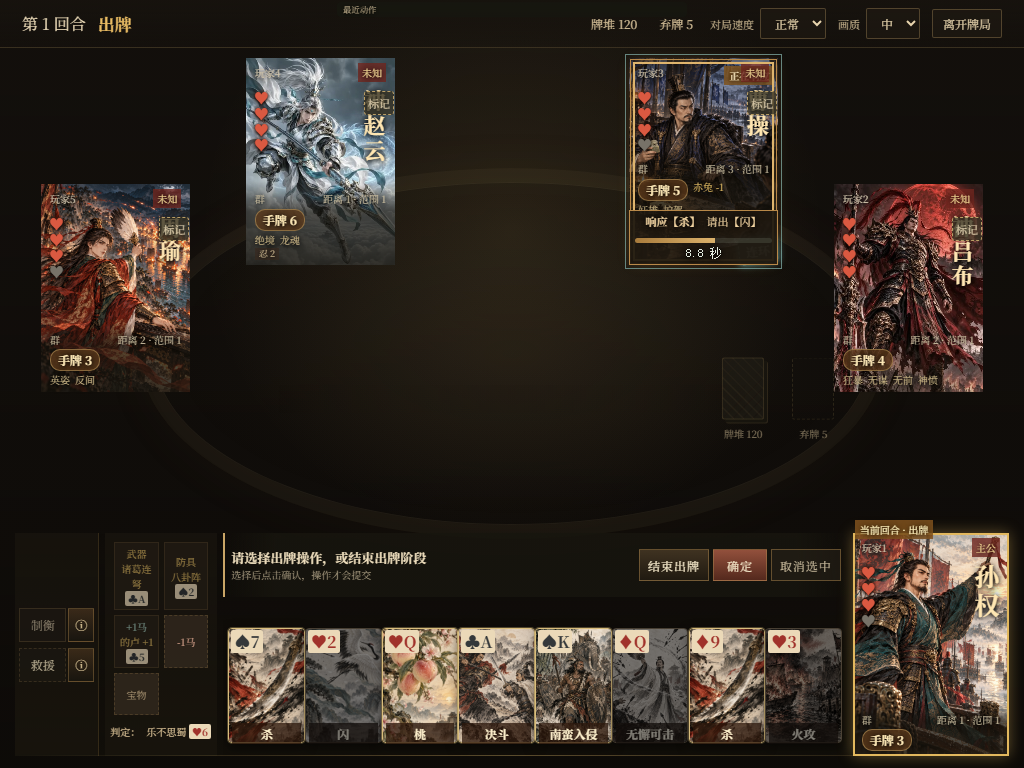
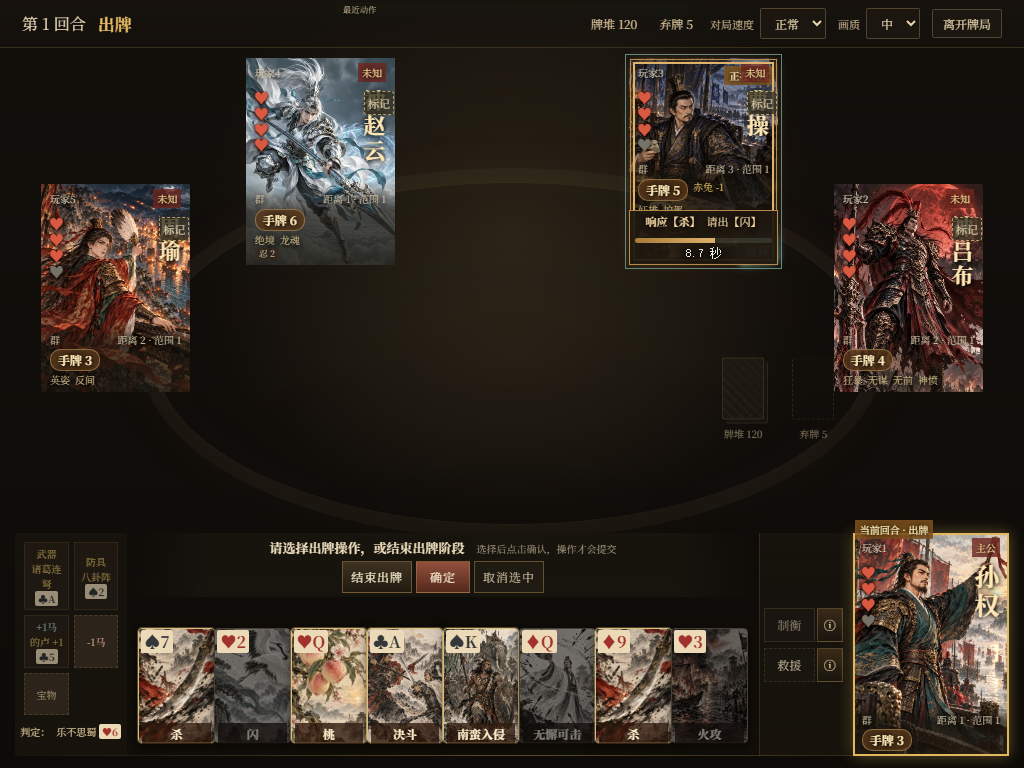
T21 frontend layout interaction and visual refactor
T21.1: mobile-table local composition, non-blocking orientation with portrait fallback

diff --git a/web/src/table.css b/web/src/table.css
@@ -51,7 +51,7 @@
   /* Local operation area: skills | equipment | prompt over hand | portrait */
   .game-board .self-area, .game-board.eight-seats .self-area {
     left: 3%; right: 3%; bottom: var(--edge-gap); height: var(--local-h);
-    grid-template-columns: 112px 140px minmax(0, 1fr) var(--local-w);
+    grid-template-columns: 140px minmax(0, 1fr) 108px var(--local-w);
     grid-template-rows: var(--prompt-h) minmax(0, 1fr); gap: 10px;
     background: linear-gradient(transparent, #14110a99);
   }
@@ -81,7 +81,7 @@
 
   /* 721–1100px: narrower local columns so the hand keeps room. */
   @media (max-width: 1100px) {
-    .game-board .self-area, .game-board.eight-seats .self-area { left: 1.5%; right: 1.5%; grid-template-columns: 84px 112px minmax(0, 1fr) var(--local-w); gap: 6px; }
+    .game-board .self-area, .game-board.eight-seats .self-area { left: 1.5%; right: 1.5%; grid-template-columns: 112px minmax(0, 1fr) 88px var(--local-w); gap: 6px; }
     .game-board.eight-seats .player-panel.player-north-west { left: 21%; }
     .game-board.eight-seats .player-panel.player-north-east { right: 21%; }
     .game-board:not(.eight-seats) .player-panel.player-north-west { left: 24%; }
@@ -167,3 +167,65 @@
 @media (prefers-reduced-motion: reduce) { .game-board * { transition-duration: .001ms !important; } }
 
 .game-board .event-stage strong { background: #211c12b3; padding: 4px 10px; }
+
+/* ───────────── Mobile-table local composition (desktop and landscape phones) ─────────────
+   equipment (left) · prompt + Confirm/Cancel centred over the hand · skills beside the portrait (right) */
+@media (min-width: 721px), (orientation: landscape) {
+  .game-board .self-area .equipment-area { grid-column: 1; }
+  .game-board .self-area .operation-area, .game-board .self-area .hand { grid-column: 2; }
+  .game-board .self-area .skill-area { grid-column: 3; border-right: 0; border-left: 1px solid #a9894533; }
+  .game-board .self-area .decision-prompt { justify-content: center; text-align: center; border-left: 0;
+    background: linear-gradient(90deg, transparent, #17150ee6 12% 88%, transparent); }
+  .game-board .self-area .decision-prompt .prompt-copy { flex: 1 1 100%; display: flex; flex-wrap: wrap; justify-content: center; align-items: baseline; gap: 4px 12px; }
+  .game-board .self-area .decision-prompt .prompt-copy small { display: inline-flex; }
+}
+@media (orientation: landscape) and (max-height: 600px) {
+  .game-board .self-area, .game-board.eight-seats .self-area { grid-template-columns: 100px minmax(0, 1fr) 80px var(--local-w); }
+  .game-board.eight-seats .self-area { grid-template-columns: 92px minmax(0, 1fr) 76px var(--local-w); }
+  .game-board .self-area .decision-prompt .prompt-copy { flex-wrap: nowrap; overflow: hidden; }
+  .game-board .self-area .decision-prompt .prompt-copy small { display: none; }
+  /* Side seats sit above the local row, as on the mobile table. */
+  .game-board:not(.eight-seats) .player-panel.player-west, .game-board:not(.eight-seats) .player-panel.player-east { top: max(46px, calc(100% - var(--local-h) - var(--seat-h) - 12px)); }
+}
+
+/* ───────────── Portrait fallback (orientation lock unavailable) ─────────────
+   Opponents scroll in a compact grid; the local operation area stays pinned at the bottom. */
+@media (orientation: portrait) and (max-width: 720px) {
+  .game-board, .game-board.eight-seats {
+    display: grid; grid-template-columns: repeat(4, minmax(0, 1fr)); grid-auto-rows: auto;
+    gap: 6px; height: auto; min-height: 0; padding: 6px 6px 0; align-content: start;
+  }
+  .game-board::before, .game-board .table-piles { display: none; }
+  .game-board > .player-panel:not(.player-self) {
+    position: relative; inset: auto; grid-column: auto; grid-row: auto;
+    width: 100%; height: auto; min-height: 0; aspect-ratio: .72; margin: 0;
+  }
+  .game-board .player-panel .responder-state { position: absolute; bottom: 0; top: auto; padding: 2px; }
+  .game-board .player-panel .response-description span { display: none; }
+  .game-board .general-line b { font-size: 14px; }
+  .game-board .seat-caption { padding: 4px 3px 2px; font-size: 9px; }
+  .game-board .seat-facts, .game-board .mini-skills { display: none; }
+  .game-board .event-stage, .game-board .event-stage:has(.center-action-card) {
+    position: relative; inset: auto; transform: none; grid-column: 1 / -1; grid-row: auto; width: 100%; min-height: 0; padding: 4px;
+  }
+  .game-board .recent-actions { position: relative; inset: auto; transform: none; grid-column: 1 / -1; grid-row: auto; width: auto; max-width: none; }
+
+  .game-board .self-area, .game-board.eight-seats .self-area {
+    position: sticky; bottom: 0; left: auto; right: auto; z-index: 30; grid-column: 1 / -1; grid-row: auto;
+    display: grid; height: auto; min-height: 0; margin: 0 -6px; padding: 6px 6px max(6px, env(safe-area-inset-bottom));
+    grid-template-columns: minmax(0, 1fr) 88px 96px; grid-template-rows: auto 112px 132px; gap: 6px;
+    background: #15120ef2; border-top: 1px solid var(--t-line);
+  }
+  .game-board .self-area .operation-area { grid-column: 1 / -1; grid-row: 1; }
+  .game-board .self-area .decision-prompt { position: relative; max-height: 34vh; padding: 4px; justify-content: center; background: none; }
+  .game-board .self-area .decision-prompt .prompt-copy { flex-basis: 100%; text-align: center; }
+  .game-board .self-area .decision-prompt .prompt-copy small { display: block; }
+  .game-board .self-area .hand { grid-column: 1 / -1; grid-row: 2; height: 112px; overflow-x: auto; overflow-y: hidden; }
+  .game-board .self-area .hand-fan { justify-content: flex-start; padding: 14px 4px 2px; width: max-content; min-width: 100%; }
+  .game-board .self-area .hand-card { flex: 0 0 64px; width: 64px; margin-left: -10px; }
+  .game-board .self-area .equipment-area { grid-column: 1; grid-row: 3; }
+  .game-board .self-area .skill-area { grid-column: 2; grid-row: 3; border: 0; }
+  .game-board .self-area .skill-bar { display: grid; }
+  .game-board .player-self .seat-timer { top: auto; bottom: 0; }
+  .game-board .self-area .player-self { grid-column: 3; grid-row: 3; position: relative; inset: auto; width: 100%; height: 100%; transform: none; }
+}

diff --git a/web/src/components/GamePage.tsx b/web/src/components/GamePage.tsx
@@ -10,7 +10,7 @@ import { SuitText } from './SuitText'
 import { CombatVFXLayer } from './CombatVFXLayer'
 import type { GodPortraitMode } from './GodPortrait'
 import { readVfxQuality, saveVfxQuality, type VfxQuality } from '../vfx/CombatVFXRuntime'
-import { LandscapeGate } from './LandscapeGate'
+import { tryLandscape } from './LandscapeGate'
 import { seatAnchors, boardClass } from '../tableLayout'
 import { cardNames } from './cardUtil'
 import { PlayerPanel } from './PlayerPanel'
@@ -57,6 +57,12 @@ export function GamePage() {
     } catch { /* A malformed local selection never changes the authoritative request. */ }
   },[request,selectionKey,selectionStorageKey])
 
+  useEffect(() => {
+    if (!window.matchMedia?.('(orientation: portrait)').matches) return
+    const attempt = () => { void tryLandscape() }
+    window.addEventListener('pointerdown', attempt, { once: true })
+    return () => window.removeEventListener('pointerdown', attempt)
+  }, [])
   const [hint, setHint] = useState('')
   useEffect(() => {
     if (!hint) return
@@ -249,7 +255,7 @@ export function GamePage() {
 
   const temporaryPanel = projection.shared_cards.length > 0 || (!!request && (request.request_type === 'choose_card' || request.request_type === 'choose_cards' && (!!projection.players.find((p) => p.player_id === request.subject_player_id)?.revealed_hand?.length || Object.values(projection.players.find((p) => p.player_id === request.subject_player_id)?.special_piles ?? {}).some(cards=>cards.some(card=>request.eligible_card_ids?.includes(card.card_id))))) && !!request.subject_player_id && (otherCardChoices.length > 0 || !!projection.players.find((p) => p.player_id === request.subject_player_id)?.revealed_hand?.some((card) => request.eligible_card_ids?.includes(card.card_id))))
   return <main className="game-page table-background">
-    <LandscapeGate />
+    
     {temporaryPanel && <TemporaryInteractionPanel projection={projection} request={request} seatId={state.seatId} connected={state.connection === 'connected'} processing={!!state.decisionProcessing} selected={selectedCards} canConfirm={canConfirm} onSelect={toggleCard} onConfirm={confirm} onPass={() => submitImmediate({ pass: true })} requestControls={request && request.request_type !== 'choose_card' ? <DecisionPrompt request={request} projection={projection} canConfirm={canConfirm} processing={!!state.decisionProcessing} summary={summary} progress={progress} reason={confirmBlocker} onConfirm={confirm} onCancel={() => setSelectedCards([])} onPass={() => submitImmediate({ pass: true })} onPassRoot={() => submitImmediate({ pass: true, scope: 'root_trick' })} onBoolean={submitImmediate} onOption={submitImmediate} /> : undefined} />}
     <header className="game-hud"><div><span>第 {projection.turn_number} 回合</span><strong>{phaseNames[projection.current_phase] ?? projection.current_phase}</strong>{state.updateAvailable && <small className="game-update-note">新版本可用</small>}</div><div className="pile-stats"><span>牌堆 {projection.deck_count}</span><span>弃牌 {projection.discard_count}</span><label>对局速度 <select aria-label="对局速度" value={gameSpeed} onChange={(event) => { const value = event.target.value as GameSpeed; setGameSpeed(value); actions.setPresentationSpeed?.(value); localStorage.setItem('sanguosha.web.speed', value) }}><option value="slow">慢</option><option value="normal">正常</option><option value="fast">快</option></select></label><label className="vfx-quality-control">画质 <select aria-label="战斗特效画质" value={vfxQuality} onChange={(event) => { const value = event.target.value as VfxQuality; setVfxQuality(value); saveVfxQuality(value) }}><option value="high">高</option><option value="medium">中</option><option value="low">低</option></select></label><button onClick={actions.returnHome}>离开牌局</button></div></header>
     <section className={boardClass(projection.players.length)}>

diff --git a/web/e2e/t21-visual.spec.ts b/web/e2e/t21-visual.spec.ts
@@ -123,3 +123,53 @@ test('T21 real draft, 5 and 8 seat tables, refresh reconnect', async ({ page }) 
   }
   expect(errors).toEqual([])
 })
+
+// T21.1 orientation: landscape uses the mobile table; portrait is a usable fallback, never a gate.
+for (const [w, h, count] of [[844, 390, 5], [915, 412, 8], [390, 844, 5], [412, 915, 8]]) {
+  test(`T21.1 mobile ${w > h ? 'landscape' : 'portrait'} ${count} seats`, async ({ page }) => {
+    await page.setViewportSize({ width: w, height: h })
+    await fixture(page, count, '')
+    await expect(page.getByText('请横屏游玩')).toHaveCount(0)
+    await expect(page.locator('.player-panel:visible')).toHaveCount(count)
+    if (w > h) {
+      const x = async (sel: string) => (await page.locator(sel).boundingBox())!
+      const [eq, hand, skills, self] = [await x('.equipment-area'), await x('.hand'), await x('.skill-area'), await x('.player-self')]
+      expect(eq.x + eq.width).toBeLessThanOrEqual(hand.x + 1)
+      expect(hand.x + hand.width).toBeLessThanOrEqual(skills.x + 1)
+      expect(skills.x + skills.width).toBeLessThanOrEqual(self.x + 1)
+      await noOverlap(page)
+    }
+    // Full play flow: card → target → Confirm, everything reachable in this orientation.
+    await page.getByRole('button', { name: '杀 ♠7' }).click()
+    await page.locator('[data-player-id="p3"] .portrait-button').click()
+    const confirm = page.getByRole('button', { name: '确定', exact: true })
+    await confirm.scrollIntoViewIfNeeded(); await expect(confirm).toBeInViewport()
+    await expect(page.getByRole('button', { name: '取消选中' })).toBeInViewport()
+    await shot(page, `mobile-${w}x${h}-${count}`)
+    await confirm.click()
+    expect(await page.evaluate(() => (window as any).__decision.value)).toEqual({ option: 'use:h1', targets: ['p3'] })
+    expect(await page.evaluate(() => document.documentElement.scrollWidth <= innerWidth)).toBe(true)
+  })
+}
+
+test('T21.1 failed fullscreen and orientation lock still enters and plays', async ({ browser }) => {
+  const context = await browser.newContext({ viewport: { width: 390, height: 844 }, isMobile: true, hasTouch: true })
+  const page = await context.newPage()
+  await page.addInitScript(() => {
+    (window as any).__lockCalls = 0
+    Element.prototype.requestFullscreen = () => Promise.reject(new Error('denied'))
+    Object.defineProperty(screen, 'orientation', { configurable: true, value: { type: 'portrait-primary', lock: () => { (window as any).__lockCalls++; return Promise.reject(new Error('NotSupportedError')) } } })
+  })
+  await page.goto('/?seed=21')
+  await page.getByRole('button', { name: '单人游戏', exact: true }).tap()
+  await page.locator('.general-card').first().tap()
+  await page.getByRole('button', { name: '确认武将' }).tap()
+  await expect(page.locator('.player-self')).toBeVisible()
+  await expect(page.locator('.hand')).toBeVisible()
+  await expect(page.getByText('请横屏游玩')).toHaveCount(0)
+  expect(await page.evaluate(() => (window as any).__lockCalls)).toBeGreaterThan(0)
+  await shot(page, 'mobile-lock-failed-portrait')
+  await page.setViewportSize({ width: 844, height: 390 })  // manual rotation later re-lays out
+  await expect(page.locator('.self-area .player-self')).toBeInViewport()
+  await context.close()
+})

diff --git a/web/src/styles.css b/web/src/styles.css
@@ -913,7 +913,6 @@ input:focus { border-color: #b07a23; box-shadow: 0 0 0 2px rgba(189,135,44,.18);
 .game-board .responder-state .timer i { background:linear-gradient(90deg,#a87b3c,var(--response-gold)); }
 
 /* T20.3: one table DOM, five independently allocated local HUD regions. */
-.landscape-gate { display:none; }
 .game-page { height:100vh; height:100dvh; min-height:0; padding:env(safe-area-inset-top) env(safe-area-inset-right) env(safe-area-inset-bottom) env(safe-area-inset-left); }
 .game-board { --local-h:clamp(230px,30dvh,300px); --local-w:calc(var(--local-h)*.7); --card-w:clamp(72px,7vw,100px); height:100%; min-height:0; }
 .game-board .self-area,.game-board.eight-seats .self-area { display:grid; position:absolute; left:3%; right:3%; bottom:26px; height:var(--local-h); min-height:0; padding:0; gap:10px; grid-template-columns:112px 140px minmax(0,1fr) var(--local-w); grid-template-rows:80px minmax(0,1fr); align-items:stretch; }
@@ -953,12 +952,7 @@ input:focus { border-color: #b07a23; box-shadow: 0 0 0 2px rgba(189,135,44,.18);
 .identity-note-menu { position:absolute; top:100%; right:0; display:grid; grid-template-columns:repeat(2,44px); background:#282116f5; border:1px solid #bda16c; }
 .identity-note-menu button { min-height:44px; padding:3px; font-size:12px; color:#ebd8ad; border:0; background:transparent; }
 @media (orientation:portrait) and (max-width:720px) {
-  .game-page > :not(.landscape-gate),.pregame-page > :not(.landscape-gate) { visibility:hidden; pointer-events:none; }
-  .game-page,.pregame-page { height:100vh; height:100dvh; min-height:0; padding:0; overflow:hidden; }
-  .landscape-gate { display:flex; position:fixed; z-index:1000; inset:0; align-items:center; justify-content:center; flex-direction:column; color:#f3dfb5; background:#16140eea; backdrop-filter:blur(12px); padding:env(safe-area-inset-top) env(safe-area-inset-right) env(safe-area-inset-bottom) env(safe-area-inset-left); }
-  .landscape-gate > span { font-size:60px; }
-  .landscape-gate strong { font-size:26px; }
-  .landscape-gate p { font-size:13px; }
+  .game-page,.pregame-page { height:auto; min-height:100dvh; padding:0; overflow-x:hidden; overflow-y:auto; }
 }
 @media (orientation:landscape) and (max-height:600px) {
   .game-board { --table-scale:clamp(.48,calc(100dvh / 800px),.75); --seat-h:clamp(100px,28dvh,156px); --seat-w:calc(var(--seat-h)*.72); --local-h:clamp(155px,43dvh,190px); --local-w:calc(var(--local-h)*.7); --card-w:clamp(52px,15dvh,78px); display:block; padding:0; min-height:0; height:100%; }

diff --git a/web/e2e/t20-3-hud.spec.ts b/web/e2e/t20-3-hud.spec.ts
@@ -29,7 +29,7 @@ for(const [width,height,count] of [[1440,1000,5],[844,390,5],[932,430,8],[844,39
   const areas=await page.locator('.skill-area,.equipment-area,.hand,.player-self').evaluateAll(es=>es.map(e=>{const r=e.getBoundingClientRect();return {x:r.x,y:r.y,right:r.right,bottom:r.bottom}}))
   expect(areas.every(r=>r.x>=0&&r.right<=width&&r.y>=0&&r.bottom<=height)).toBe(true)
   const skills=await page.locator('.skill-area').boundingBox(),hand=await page.locator('.hand').boundingBox()
-  expect(skills!.x+skills!.width).toBeLessThanOrEqual(hand!.x)
+  expect(hand!.x+hand!.width).toBeLessThanOrEqual(skills!.x)
   const button=page.getByRole('button',{name:'查看制衡技能说明'}).first()
   await button.click();await expect(page.getByRole('tooltip')).toContainText('制衡');await page.mouse.move(0,0);await button.blur()
   const eq=page.getByRole('button',{name:'装备 诸葛连弩'})
@@ -54,11 +54,11 @@ test('T20.3 identity notes survive refresh and remain browser-private',async({pa
  await expect(note).toHaveCount(0)
 })
 
-test('T20.3 portrait gate keeps selection and the same portrait across rotation',async({page})=>{
+test('T21.1 portrait fallback keeps selection and the same portrait across rotation',async({page})=>{
  await page.setViewportSize({width:844,height:390});await fixture(page,5)
  await page.getByRole('button',{name:'装备 诸葛连弩'}).click()
  await page.evaluate(()=>{(window as any).__portrait=document.querySelector('.player-self .dynamic-portrait')})
- await page.setViewportSize({width:390,height:844});await expect(page.getByText('请横屏游玩')).toBeVisible()
+ await page.setViewportSize({width:390,height:844});await expect(page.getByText('请横屏游玩')).toHaveCount(0)
  await page.setViewportSize({width:844,height:390});await expect(page.getByText('请横屏游玩')).not.toBeVisible()
  await expect(page.getByRole('button',{name:'装备 诸葛连弩'})).toHaveAttribute('aria-pressed','true')
  expect(await page.evaluate(()=>(window as any).__portrait===document.querySelector('.player-self .dynamic-portrait'))).toBe(true)

diff --git a/web/src/components/PregamePage.tsx b/web/src/components/PregamePage.tsx
@@ -1,4 +1,4 @@
-import { LandscapeGate } from './LandscapeGate'
+
 import { useState } from 'react'
 import { useGame } from '../state/GameContext'
 import { DynamicPortrait } from './DynamicPortrait'
@@ -15,14 +15,14 @@ export function PregamePage() {
   const { state, actions } = useGame()
   const draft = state.draft
   const [search, setSearch] = useState('')
-  if (!draft) return <main className="pregame-page table-background"><LandscapeGate /><div className="paper-panel loading-panel">等待服务器发放武将候选……</div></main>
-  if (draft.request.choices.some((id) => !state.generals[id])) return <main className="pregame-page table-background"><LandscapeGate /><div className="paper-panel loading-panel">武将资料载入中……<button onClick={() => window.location.reload()}>重新载入</button></div></main>
+  if (!draft) return <main className="pregame-page table-background"><div className="paper-panel loading-panel">等待服务器发放武将候选……</div></main>
+  if (draft.request.choices.some((id) => !state.generals[id])) return <main className="pregame-page table-background"><div className="paper-panel loading-panel">武将资料载入中……<button onClick={() => window.location.reload()}>重新载入</button></div></main>
   const selected = state.generals[state.selectedGeneral]
   const choices = draft.test_room ? draft.request.choices.filter((id) => {
     const general = state.generals[id]
     return general.name.includes(search.trim()) || general.skills.some((skill) => skill.name.includes(search.trim()))
   }) : draft.request.choices
-  return <main className="pregame-page table-background"><LandscapeGate />
+  return <main className="pregame-page table-background">
     <section className="pregame-shell paper-panel">
       <header className="pregame-header">
         <div className={`identity-reveal identity-${draft.identity}`}><span>{draft.lord_id ? "你的身份" : "你的阵营"}</span><strong>{identityLabel[draft.identity] ?? draft.identity}</strong></div>

diff --git a/web/src/components/LandscapeGate.test.tsx b/web/src/components/LandscapeGate.test.tsx
@@ -1,16 +1,15 @@
-import { render, screen } from '@testing-library/react'
 import { expect, it, vi } from 'vitest'
-import { LandscapeGate, tryLandscape } from './LandscapeGate'
+import { tryLandscape } from './LandscapeGate'
 
-it('keeps a CSS orientation prompt available without rebuilding game state',()=>{
- render(<LandscapeGate/>);expect(screen.getByText('请横屏游玩')).toBeInTheDocument()
-})
-it('absorbs fullscreen denial after a coarse-pointer start gesture',async()=>{
+it('absorbs fullscreen and orientation-lock rejection after a coarse-pointer gesture',async()=>{
  const original=window.matchMedia
  window.matchMedia=vi.fn().mockReturnValue({matches:true})
  const start=vi.fn().mockRejectedValue(new Error('unsupported'))
+ const lock=vi.fn().mockRejectedValue(new Error('NotSupportedError'))
  Object.defineProperty(document.documentElement,'requestFullscreen',{value:start,configurable:true})
+ Object.defineProperty(screen,'orientation',{value:{lock},configurable:true})
  await expect(tryLandscape()).resolves.toBeUndefined()
  expect(start).toHaveBeenCalledTimes(1)
+ expect(lock).toHaveBeenCalledWith('landscape')
  window.matchMedia=original
 })

diff --git a/web/src/components/LandscapeGate.tsx b/web/src/components/LandscapeGate.tsx
@@ -1,12 +1,11 @@
-export function LandscapeGate() {
-  return <div className="landscape-gate" role="status"><span aria-hidden="true">↻ ▯</span><strong>请横屏游玩</strong><p>旋转手机后即可继续当前对局</p></div>
-}
-
-// Called once from the user's start button; rotation itself never touches game state.
+// Best-effort landscape for touch devices. Never blocks: on any failure the
+// responsive portrait layout stays in use, and later rotation is handled by CSS.
 export async function tryLandscape() {
-  if (!window.matchMedia('(pointer: coarse)').matches) return
+  if (!window.matchMedia?.('(pointer: coarse)').matches) return
   try {
-    await document.documentElement.requestFullscreen?.()
+    if (!document.fullscreenElement) await document.documentElement.requestFullscreen?.()
+  } catch { /* Fullscreen denied: continue without it. */ }
+  try {
     await (screen.orientation as ScreenOrientation & { lock?: (orientation: string) => Promise<void> }).lock?.('landscape')
-  } catch { /* Unsupported browsers use the portrait prompt. */ }
+  } catch { /* Lock unsupported or rejected: portrait fallback layout. */ }
 }

diff --git a/web/e2e/t20-3-engine.spec.ts b/web/e2e/t20-3-engine.spec.ts
@@ -33,7 +33,7 @@ test('T20.3 real equipment payload and rotation preserve room and WebSocket',asy
  await equipment.click();await expect(equipment).toHaveAttribute('aria-pressed','true')
  await equipment.click();await expect(equipment).toHaveAttribute('aria-pressed','false')
  await equipment.click()
- await page.setViewportSize({width:390,height:844});await expect(page.getByText('请横屏游玩')).toBeVisible()
+ await page.setViewportSize({width:390,height:844});await expect(page.getByText('请横屏游玩')).toHaveCount(0)
  await page.setViewportSize({width:932,height:430});await expect(equipment).toHaveAttribute('aria-pressed','true')
  expect(sockets).toBe(socketsBefore)
  await page.getByRole('button',{name:'确定',exact:true}).click()

diff --git a/web/e2e/t20-3-draft.spec.ts b/web/e2e/t20-3-draft.spec.ts
@@ -3,7 +3,7 @@ test('T20.3 draft portrait gate and landscape ten-choice grid',async({page})=>{
  await page.setViewportSize({width:390,height:844});await page.goto('/?seed=6')
  await expect(page.getByText('请横屏游玩')).toHaveCount(0)
  await page.getByRole('button',{name:'单人游戏'}).click()
- await expect(page.getByText('请横屏游玩')).toBeVisible()
+ await expect(page.getByText('请横屏游玩')).toHaveCount(0)
  await page.setViewportSize({width:844,height:390})
  await expect(page.getByText('请横屏游玩')).not.toBeVisible()
  await expect(page.locator('.general-card')).toHaveCount(10)
